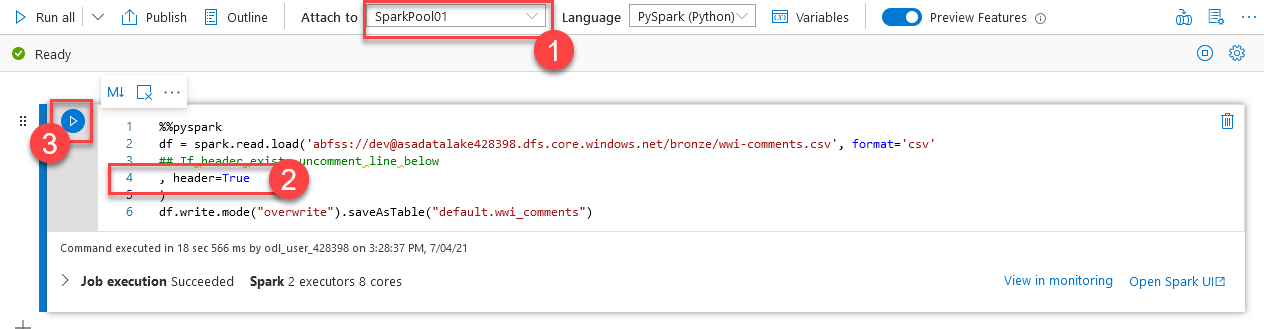
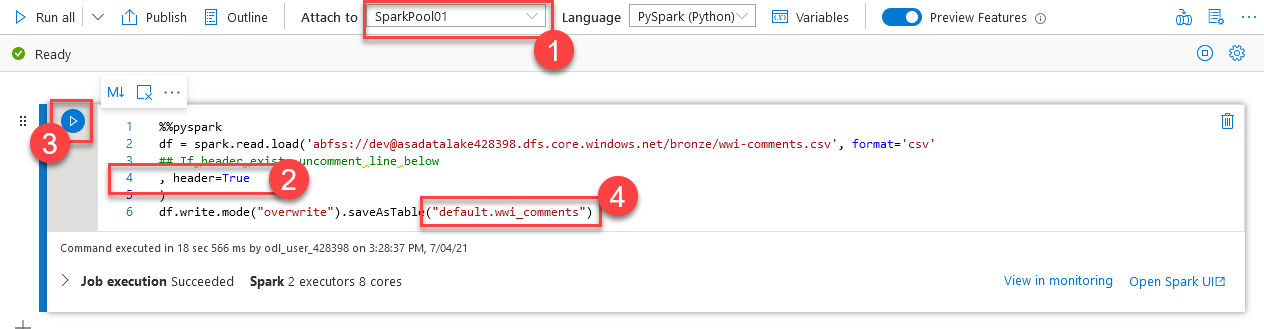
Clarifying table name change

Changed region(s): [[0.3085, 0.5167, 0.5245, 0.7295]]

diff --git a/05-data-science-with-spark.md b/05-data-science-with-spark.md
@@ -104,7 +104,7 @@ In this task, you will be implementing sentiment analysis in Synapse without wri
 
    ![A new notebook is open. The code in the notebook is loading a dataframe from the wwi-comments.csv file from the data lake and creating a spark table named wwi_comments.](media/run-spark-table-creation.png "Create Spark Table")
 
-   `saveAsTable` stores a persistent table copy of the dataframe into Hive metastore. In this case, the Spark database name is `default`, and the table name is `wwi_comments`.
+   `saveAsTable` stores a persistent table copy of the dataframe into Hive metastore. In this case, the Spark database name is `default`, and the table name is `wwi_comments` **(4)**.
 
 4. In order to see the newly created Spark database refresh the **Databases (2)** list. Select **default (3)** and find the **wwi_comments (4)** table in the tables collection.
 
